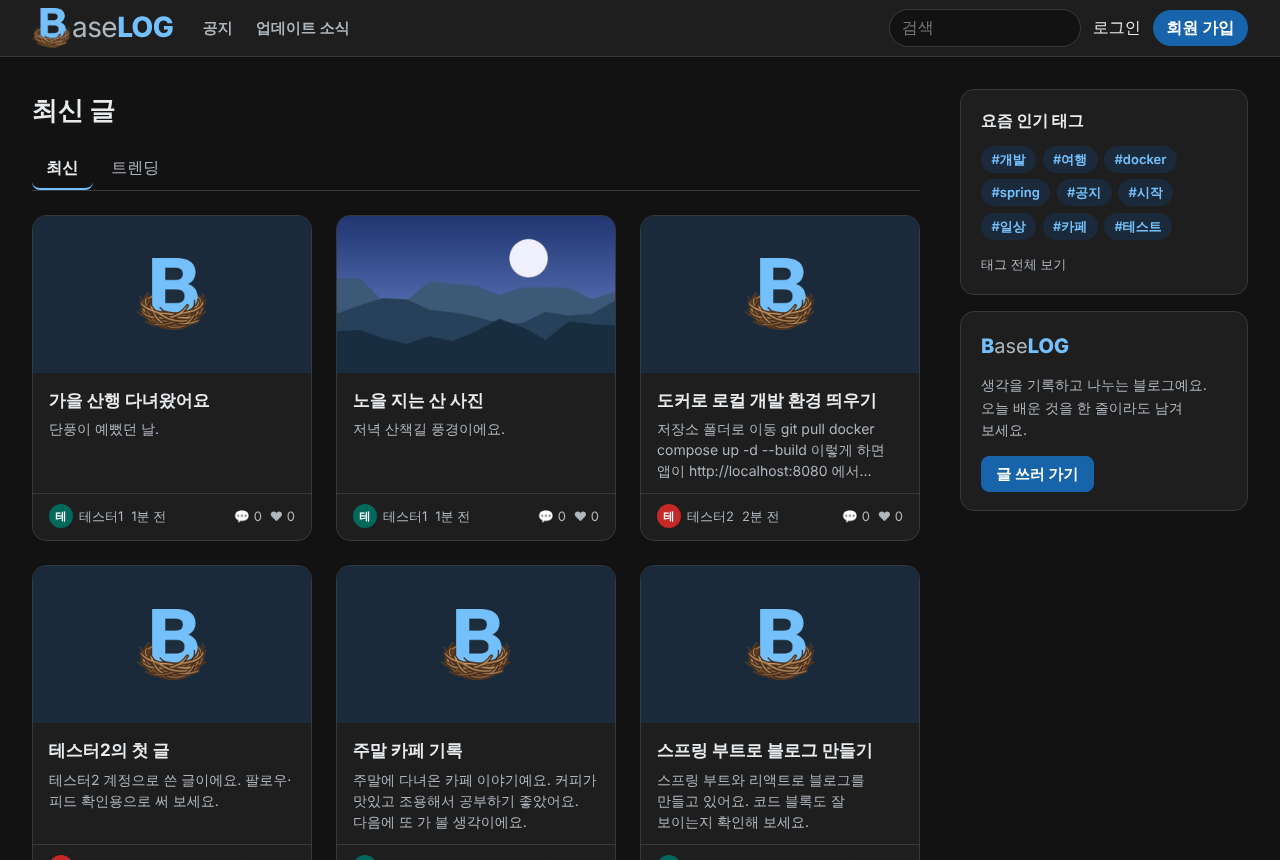
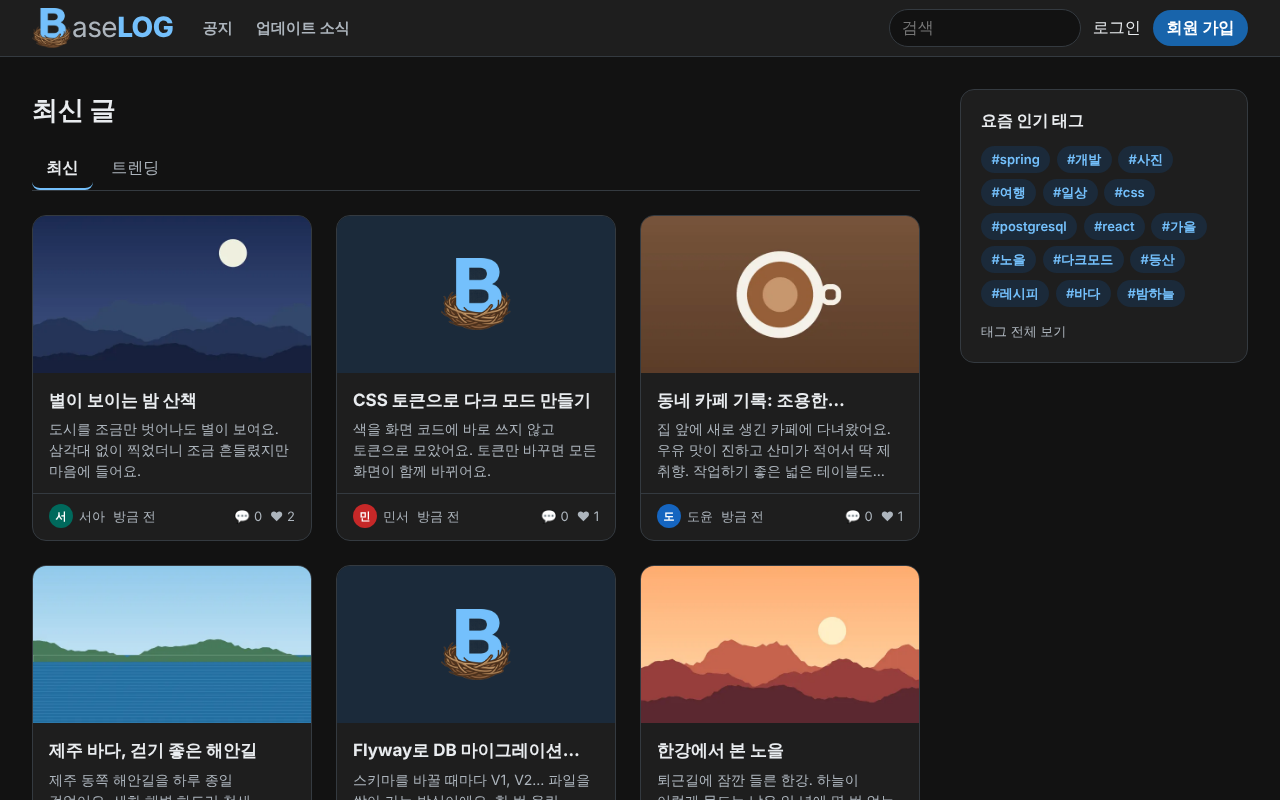
조직 소개글 보강: 화면 캡처 6종(라이트·다크), 비교표, 구조 그림
Claude-Session: https://claude.ai/code/session_01HDS7w3FNk6bt31K9hFsbrM

diff --git a/assets/org-profile/README.md b/assets/org-profile/README.md
@@ -2,66 +2,164 @@
 
 <picture>
   <source media="(prefers-color-scheme: dark)" srcset="https://raw.githubusercontent.com/AIGJ006/BaseLOG/main/frontend/src/assets/logo-b-dark.png" />
-  <img src="https://raw.githubusercontent.com/AIGJ006/BaseLOG/main/frontend/src/assets/logo-b-light.png" alt="BaseLOG" width="80" />
+  <img src="https://raw.githubusercontent.com/AIGJ006/BaseLOG/main/frontend/src/assets/logo-b-light.png" alt="BaseLOG" width="88" />
 </picture>
 
 # BaseLOG
 
 ### 생각을 기록하고 나누는 블로그 | 글쓰기부터 소통까지
 
-설치 없이 브라우저에서 바로 쓰는 개인 블로그 서비스예요.<br/>Markdown으로 쓰고, 카테고리로 정리하고, 댓글·팔로우로 이웃과 나눠요.
+설치 없이 브라우저에서 바로 쓰는 개인 블로그 서비스예요.<br/>
+Markdown으로 쓰고, 카테고리로 정리하고, 댓글·좋아요·팔로우로 이웃과 나눠요.
 
-[![사이트](https://img.shields.io/badge/사이트-baselog.java21.net-1a73e8)](https://baselog.java21.net)
+[![사이트](https://img.shields.io/badge/사이트-baselog.java21.net-1a73e8?style=for-the-badge)](https://baselog.java21.net)
+
+[![Deploy](https://github.com/AIGJ006/BaseLOG/actions/workflows/deploy.yml/badge.svg)](https://github.com/AIGJ006/BaseLOG/actions/workflows/deploy.yml)
 ![Java](https://img.shields.io/badge/Java_21-007396?logo=openjdk&logoColor=white)
 ![Spring Boot](https://img.shields.io/badge/Spring_Boot_4.1-6DB33F?logo=springboot&logoColor=white)
 ![React](https://img.shields.io/badge/React_18-61DAFB?logo=react&logoColor=black)
+![TypeScript](https://img.shields.io/badge/TypeScript-3178C6?logo=typescript&logoColor=white)
 ![PostgreSQL](https://img.shields.io/badge/PostgreSQL_18-4169E1?logo=postgresql&logoColor=white)
 ![Redis](https://img.shields.io/badge/Redis-DC382D?logo=redis&logoColor=white)
 ![Docker](https://img.shields.io/badge/Docker-2496ED?logo=docker&logoColor=white)
 
-[🌐 사이트 가기](https://baselog.java21.net) · [💻 코드](https://github.com/AIGJ006/BaseLOG) · [📚 문서](https://github.com/AIGJ006/BaseLOG_DOCS)
+[🌐 사이트 가기](https://baselog.java21.net) · [💻 코드](https://github.com/AIGJ006/BaseLOG) · [📚 설계 문서](https://github.com/AIGJ006/BaseLOG_DOCS) · [📝 기능 명세](https://github.com/AIGJ006/BaseLOG_DOCS/tree/main/specs) · [🗒 변경 기록](https://github.com/AIGJ006/BaseLOG/blob/main/CHANGELOG.md)
 
 </div>
 
 <p align="center">
   <picture>
     <source media="(prefers-color-scheme: dark)" srcset="https://raw.githubusercontent.com/AIGJ006/BaseLOG_DOCS/main/assets/org-profile/home-dark.png" />
-    <img src="https://raw.githubusercontent.com/AIGJ006/BaseLOG_DOCS/main/assets/org-profile/home-light.png" alt="BaseLOG 홈 화면" width="820" />
+    <img src="https://raw.githubusercontent.com/AIGJ006/BaseLOG_DOCS/main/assets/org-profile/home-light.png" alt="BaseLOG 홈 화면 — 최신 글 카드와 요즘 인기 태그" width="880" />
   </picture>
 </p>
 
+## 목차
+
+- [왜 BaseLOG인가](#-왜-baselog인가)
+- [화면 둘러보기](#-화면-둘러보기)
+- [주요 기능](#-주요-기능)
+- [아키텍처](#-아키텍처)
+- [저장소](#-저장소)
+- [기술 스택](#-기술-스택)
+- [이렇게 만들었어요](#-이렇게-만들었어요)
+- [팀](#-팀)
+
+## 💡 왜 BaseLOG인가
+
+| | 흔한 블로그 | BaseLOG |
+| --- | --- | --- |
+| ✍ 글쓰기 | 글자만 입력 | **Markdown + 도구 모음**. 왼쪽에 쓰면 오른쪽에 바로 미리보기, 사진·파일 첨부, 썸네일 고르기 |
+| 💾 쓰던 글 | 창을 닫으면 사라짐 | **임시저장**과 브라우저 백업. 다시 열면 이어서 써요 |
+| 🗂 정리 | 글 목록 하나 | **내 카테고리**(상·하위)와 태그. 사이드바에서 카테고리별로 모아 봐요 |
+| 🏷 태그 | 직접 입력 | **AI 태그 추천**. Google Gemini가 막히면 자체 AI(Ollama)로 넘어가요 |
+| 🔍 발견 | 최신 글만 | **트렌딩 글·요즘 인기 태그**, 글·사람 검색 |
+| 💬 소통 | 댓글 | 댓글·답글, 좋아요, **팔로우와 피드**, 🔔 알림 |
+| 🌙 보기 | 밝은 화면만 | **다크 모드**(시스템·라이트·다크), PC·휴대폰 화면 |
+| 🛡 운영 | — | **신고·숨김·정지**, 공지·업데이트 소식 |
+
+## 📸 화면 둘러보기
+
+<table>
+<tr>
+<td width="50%"><picture><source media="(prefers-color-scheme: dark)" srcset="https://raw.githubusercontent.com/AIGJ006/BaseLOG_DOCS/main/assets/org-profile/editor-dark.png" /><img src="https://raw.githubusercontent.com/AIGJ006/BaseLOG_DOCS/main/assets/org-profile/editor-light.png" alt="글쓰기 화면" /></picture><br/><b>글쓰기</b> — 도구 모음, 실시간 미리보기, 임시저장, 카테고리 선택</td>
+<td width="50%"><picture><source media="(prefers-color-scheme: dark)" srcset="https://raw.githubusercontent.com/AIGJ006/BaseLOG_DOCS/main/assets/org-profile/post-dark.png" /><img src="https://raw.githubusercontent.com/AIGJ006/BaseLOG_DOCS/main/assets/org-profile/post-light.png" alt="글 읽기" /></picture><br/><b>글 읽기</b> — 대표 사진, 코드 강조, 좋아요·댓글</td>
+</tr>
+<tr>
+<td width="50%"><picture><source media="(prefers-color-scheme: dark)" srcset="https://raw.githubusercontent.com/AIGJ006/BaseLOG_DOCS/main/assets/org-profile/blog-dark.png" /><img src="https://raw.githubusercontent.com/AIGJ006/BaseLOG_DOCS/main/assets/org-profile/blog-light.png" alt="개인 블로그" /></picture><br/><b>개인 블로그</b> — 카테고리 사이드바, 블로그 안 검색, 태그별 글 수</td>
+<td width="50%"><picture><source media="(prefers-color-scheme: dark)" srcset="https://raw.githubusercontent.com/AIGJ006/BaseLOG_DOCS/main/assets/org-profile/notif-dark.png" /><img src="https://raw.githubusercontent.com/AIGJ006/BaseLOG_DOCS/main/assets/org-profile/notif-light.png" alt="알림" /></picture><br/><b>알림</b> — 댓글·좋아요·팔로우를 바로, 종류별로 끄기</td>
+</tr>
+<tr>
+<td width="50%"><picture><source media="(prefers-color-scheme: dark)" srcset="https://raw.githubusercontent.com/AIGJ006/BaseLOG_DOCS/main/assets/org-profile/search-dark.png" /><img src="https://raw.githubusercontent.com/AIGJ006/BaseLOG_DOCS/main/assets/org-profile/search-light.png" alt="검색" /></picture><br/><b>검색</b> — 글·사람 탭, 관련도순·최신순</td>
+<td width="50%"><img src="https://raw.githubusercontent.com/AIGJ006/BaseLOG_DOCS/main/assets/org-profile/home-dark.png" alt="다크 모드 홈" /><br/><b>다크 모드</b> — 설정에서 시스템·라이트·다크 중 고르기</td>
+</tr>
+</table>
+
+<sub>GitHub를 다크 모드로 보면 캡처도 다크 화면으로 바뀌어요.</sub>
+
 ## ✨ 주요 기능
 
-| | |
-|---|---|
-| ✍ **글쓰기** | Markdown 에디터와 도구 모음, 임시저장, 썸네일 고르기, 사진·파일 첨부 |
-| 🗂 **정리** | 내 카테고리(상·하위), 태그, AI 태그 추천 |
-| 🔍 **발견** | 최신·트렌딩 글, 요즘 인기 태그, 글·사람 검색 |
-| 💬 **소통** | 댓글·답글, 좋아요, 팔로우와 피드, 알림 |
-| 🌙 **편하게** | 다크 모드, PC·휴대폰 화면 |
-| 🛡 **운영** | 신고·숨김·정지, 공지·업데이트 소식 |
+### ✍ 쓰기
+- **Markdown 에디터** — 네이버 블로그처럼 사진·인용구·구분선·링크·코드·표 단추를 누르면 문법이 들어가요.
+- **[임시저장] · [글 등록]** — 임시글은 "임시" 탭에, 등록한 글은 "등록" 탭에 모여요.
+- **사진·첨부파일** — 글에 사진과 파일을 올리고, 카드에 보일 썸네일을 직접 골라요.
+- **AI 태그 추천** — 처음 쓸 때 외부 전송 동의를 받고, 제목과 본문을 보고 태그를 제안해요.
+- **내 글 관리** — 공개 범위를 바로 바꾸고, 지운 글은 휴지통에서 되살려요.
+
+### 📖 읽기와 발견
+- **홈** — 최신·트렌딩 탭과 요즘 인기 태그.
+- **글 상세** — 대표 사진, 코드 강조, 작성자 칸, 링크 미리보기(Open Graph).
+- **태그·검색** — 태그별 글 모아 보기, 글·사람 검색, 블로그 안 검색.
+
+### 💬 반응과 관계
+- **좋아요·댓글·답글**, 조회수.
+- **팔로우와 피드** — 팔로우한 사람의 새 글을 한곳에서.
+- **🔔 알림** — 댓글·답글·좋아요·새 팔로워·새 글. 종류별로 끌 수 있어요.
+
+### 🔐 계정과 운영
+- **가입·로그인** — 이메일(인증 메일), Google·GitHub 계정.
+- **프로필·설정** — 사진, 닉네임, 소개, 테마.
+- **신고·숨김·정지** — 글·댓글 신고, 관리자 처리 화면.
+- **탈퇴와 복구** — 유예 기간 안에 로그인하면 되살아나요.
+
+## 🏗 아키텍처
+
+BaseLOG는 **모듈러 모놀리스**예요. Spring Boot 앱 하나가 React 화면과 API를 함께 내주고, 기능은 모듈로 나눠 이벤트로 이어요(예: 댓글이 달림 → 알림).
+
+```mermaid
+flowchart LR
+  U([🧑 브라우저]) -->|HTTPS| N[nginx]
+  N --> A
+  subgraph A[Spring Boot 앱]
+    direction TB
+    F[React 화면] ~~~ M
+    M[account · post · category · tag<br/>interaction · notification<br/>discovery · media · moderation]
+  end
+  A --> P[(PostgreSQL)]
+  A --> R[(Redis<br/>세션·한도)]
+  A --> S[(MinIO<br/>사진·파일)]
+  A -.AI 태그.-> G[Gemini / Ollama]
+  A -.메일.-> E[Gmail SMTP]
+```
+
+`main`에 합치면 **GitHub Actions**가 도커 이미지를 만들어 서버로 보내고 자동으로 다시 띄워요.
 
 ## 📦 저장소
 
 | 저장소 | 내용 |
-|---|---|
-| [**BaseLOG**](https://github.com/AIGJ006/BaseLOG) | 서비스 코드 (React 화면 + Spring Boot 서버), 배포 설정 |
-| [**BaseLOG_DOCS**](https://github.com/AIGJ006/BaseLOG_DOCS) | 요구사항·설계 문서, 기능별 명세(Spec Kit) |
+| --- | --- |
+| [**BaseLOG**](https://github.com/AIGJ006/BaseLOG) | 서비스 코드 — `frontend/`(React) · `backend/`(Spring Boot) · `deploy/`(배포 설정) |
+| [**BaseLOG_DOCS**](https://github.com/AIGJ006/BaseLOG_DOCS) | 요구사항·설계 문서, 기능별 명세 001~019, constitution |
 
 ## 🛠 기술 스택
 
-- **화면**: React 18, TypeScript, Vite
-- **서버**: Java 21, Spring Boot 4.1, 모듈러 모놀리스
-- **데이터**: PostgreSQL 18, Flyway, Redis, MinIO(사진)
-- **AI**: Google Gemini, Ollama(대체)
-- **배포**: Docker Compose, GitHub Actions(main에 합치면 자동 배포), nginx
+| 분야 | 사용한 것 |
+| --- | --- |
+| 화면 | ![React](https://img.shields.io/badge/React_18-61DAFB?logo=react&logoColor=black) ![TypeScript](https://img.shields.io/badge/TypeScript-3178C6?logo=typescript&logoColor=white) ![Vite](https://img.shields.io/badge/Vite-646CFF?logo=vite&logoColor=white) |
+| 서버 | ![Java](https://img.shields.io/badge/Java_21-007396?logo=openjdk&logoColor=white) ![Spring Boot](https://img.shields.io/badge/Spring_Boot_4.1-6DB33F?logo=springboot&logoColor=white) ![Spring Security](https://img.shields.io/badge/Spring_Security-6DB33F?logo=springsecurity&logoColor=white) |
+| 데이터 | ![PostgreSQL](https://img.shields.io/badge/PostgreSQL_18-4169E1?logo=postgresql&logoColor=white) ![Flyway](https://img.shields.io/badge/Flyway-CC0200?logo=flyway&logoColor=white) ![Redis](https://img.shields.io/badge/Redis-DC382D?logo=redis&logoColor=white) ![MinIO](https://img.shields.io/badge/MinIO-C72E49?logo=minio&logoColor=white) |
+| AI | ![Gemini](https://img.shields.io/badge/Google_Gemini-8E75B2?logo=googlegemini&logoColor=white) ![Ollama](https://img.shields.io/badge/Ollama-000000?logo=ollama&logoColor=white) |
+| 시험 | ![JUnit](https://img.shields.io/badge/JUnit_5-25A162?logo=junit5&logoColor=white) ![Testcontainers](https://img.shields.io/badge/Testcontainers-291A3F) ![Vitest](https://img.shields.io/badge/Vitest-6E9F18?logo=vitest&logoColor=white) ![Playwright](https://img.shields.io/badge/Playwright-2EAD33?logo=playwright&logoColor=white) |
+| 배포 | ![Docker](https://img.shields.io/badge/Docker_Compose-2496ED?logo=docker&logoColor=white) ![GitHub Actions](https://img.shields.io/badge/GitHub_Actions-2088FF?logo=githubactions&logoColor=white) ![nginx](https://img.shields.io/badge/nginx-009639?logo=nginx&logoColor=white) |
+
+## 🧭 이렇게 만들었어요
+
+**스펙 주도 개발**([GitHub Spec Kit](https://github.com/github/spec-kit))로 만들었어요. 기능마다 명세 → 계획 → 작업 목록 → 구현 순서로 진행했어요.
+
+```mermaid
+flowchart LR
+  A[요구사항 회의] --> B[명세 spec.md] --> C[계획 plan.md] --> D[작업 tasks.md] --> E[구현·시험] --> F[자동 배포]
+```
+
+- 기능 명세 **19개** — 계정·글쓰기·사진·공개 범위·댓글·태그·좋아요·팔로우·알림·검색·AI 태그·신고·탈퇴·다크 모드·카테고리·첨부·썸네일
+- 전체 점검 때 시험 **5,200여 건** 통과 (서버 4,183 · 화면 996 · 브라우저 E2E 71)
 
 ## 👥 팀
 
 | 이름 | 맡은 일 |
-|---|---|
+| --- | --- |
 | 강성찬 | 요구사항 분석, 명세서 |
 | 나민서 | 요구사항 분석, 명세서, 구현·배포 |
 | 김민서 | 요구사항 분석, 명세서 |
 
-<p align="center"><sub>스펙 주도 개발(GitHub Spec Kit)로 만들었어요</sub></p>
+<p align="center"><sub>© 2026 BaseLOG 팀</sub></p>
